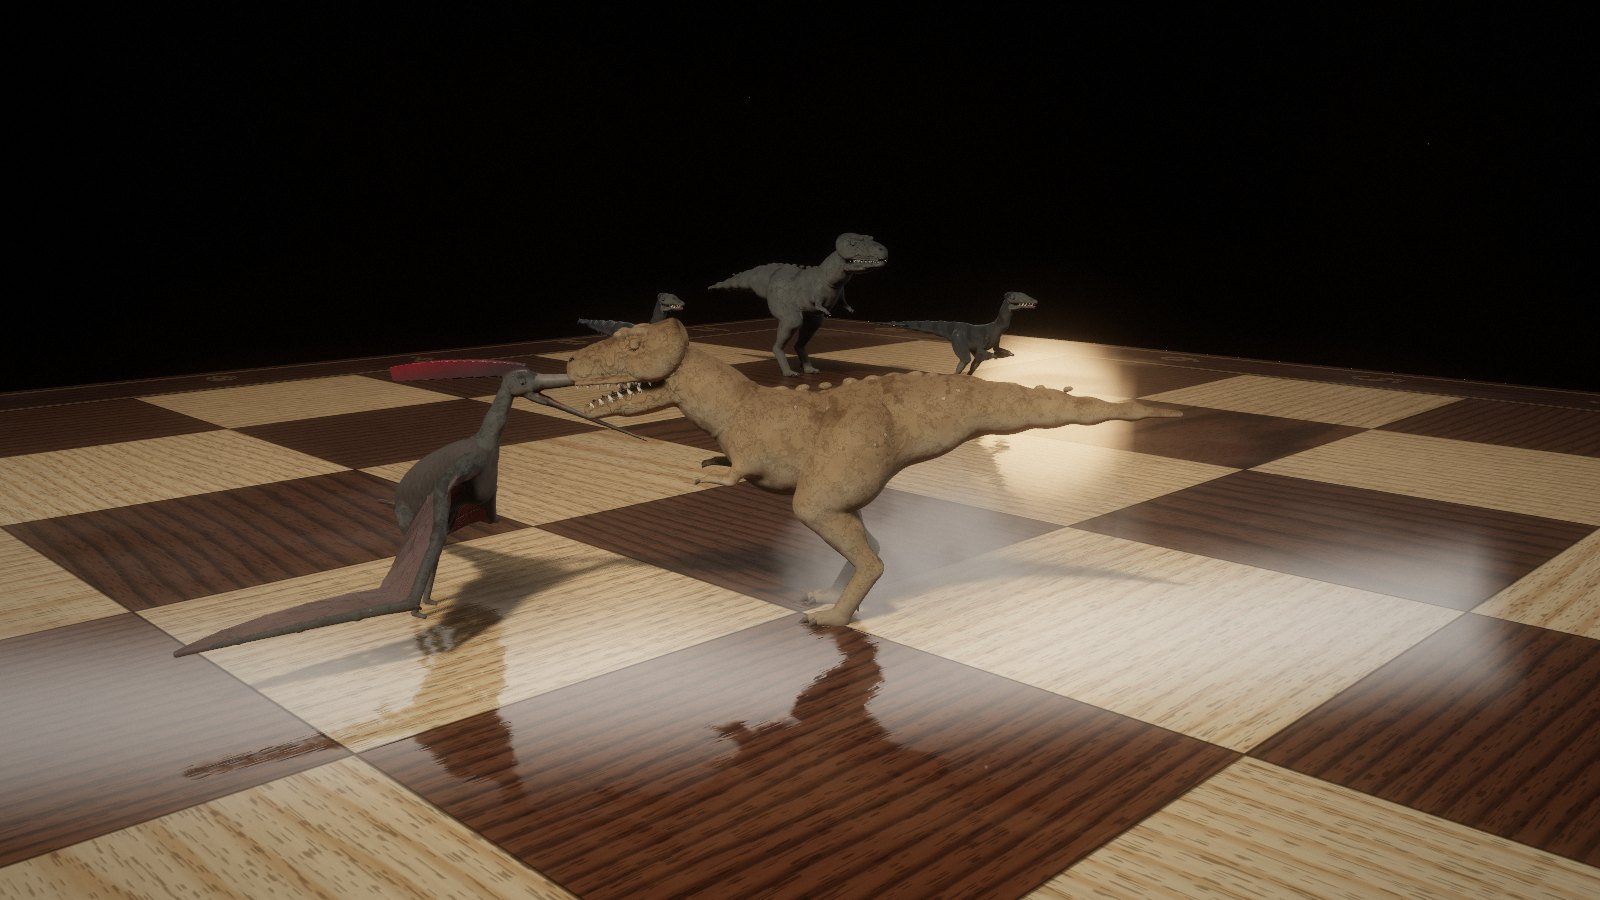
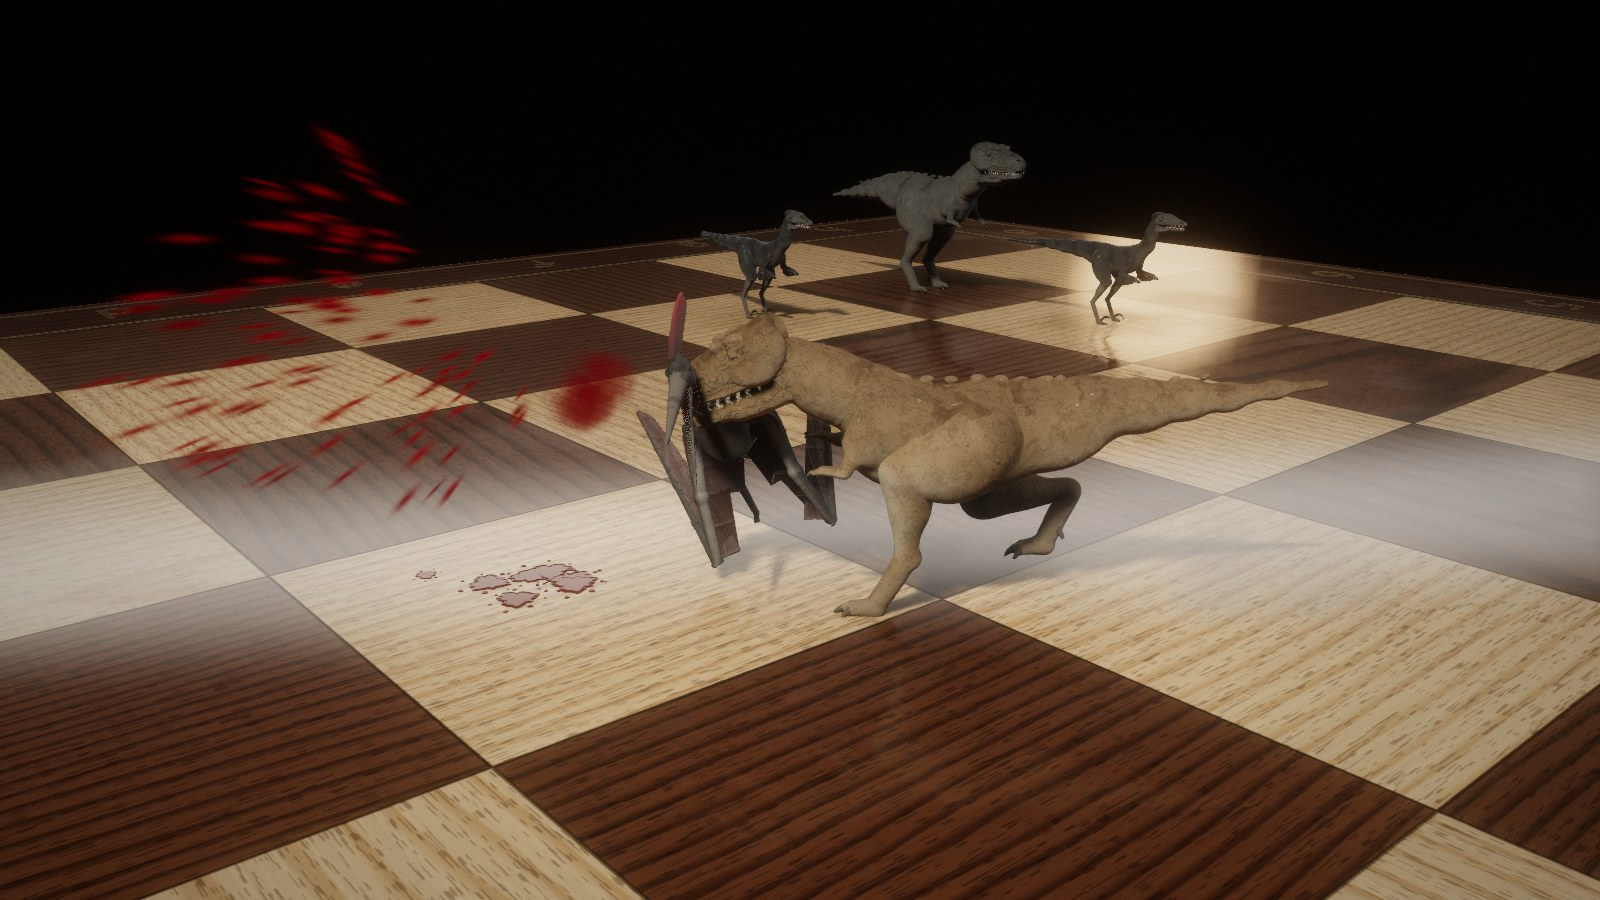
Dinosaurs: a new screenshot
The tyrannosaurus holding a pteranodon across his jaws by the neck, its wings
drawn in (the old one showed the pteranodon's beak inside his mouth).

Claude-Session: https://claude.ai/code/session_015WhQyphTZ2ysefGf8y1wTu

diff --git a/web/index.html b/web/index.html
@@ -377,8 +377,8 @@
       <figcaption>Aliens: a flying saucer beams up a psychic in a glass jar.</figcaption></figure>
     <figure><img src="screens/roman-battle.jpg" alt="A legionary pole-vaults over his enemy in a somersault" loading="lazy" width="1600" height="900">
       <figcaption>Romans: a legionary pole-vaults over his enemy in a somersault, to stab him in the back.</figcaption></figure>
-    <figure><img src="screens/dino-battle.jpg" alt="A tyrannosaurus lunges, jaws wide, at a pteranodon" loading="lazy" width="1600" height="900">
-      <figcaption>Dinosaurs: the tyrannosaurus king lunges, jaws wide, at a pteranodon stabbing at him with its beak.</figcaption></figure>
+    <figure><img src="screens/dino-battle.jpg" alt="A tyrannosaurus lifts a pteranodon in its jaws by the neck" loading="lazy" width="1600" height="900">
+      <figcaption>Dinosaurs: the tyrannosaurus king has seized a pteranodon by the neck and lifts it, kicking, in his jaws.</figcaption></figure>
   </div>
 
   <footer>Living Marble @PROJECT_VERSION@ &middot; everything you see and hear is made by the game as it starts &middot;
